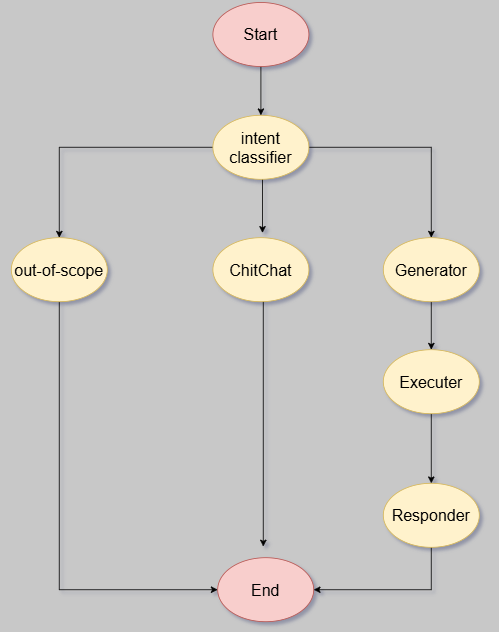
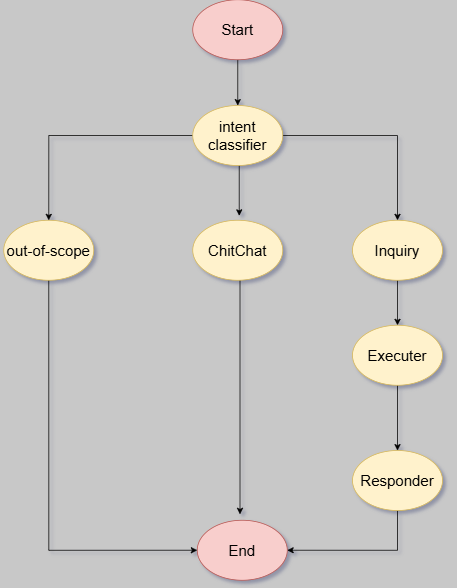
enhance architecture

diff --git a/agent/prompts.py b/agent/prompts.py
@@ -1,88 +1,97 @@
-# --- MAIN SYSTEM PROMPT ---
 main_system = """
-You are a Knowledge Graph Assistant. Your goal is to help the user manage and query their knowledge base.
+You are the "Knowledge Librarian," a sophisticated AI assistant designed to manage and query a complex knowledge graph. 
+Your goal is to maintain the integrity of the knowledge base while providing helpful, precise, and professional assistance to the user.
 """
 
-# --- INTENT CLASSIFIER PROMPT ---
 classifier_prompt = """
 **ROLE**
 You are a precise intent classifier for a knowledge graph system.
 
 **OBJECTIVE**
 Classify the user's input into one of the following categories:
-- "generator"   → user wants to add, edit, or delete information (facts).
-- "inquire"     → user is asking a question about stored facts.
-- "chitchat"    → user is greeting you or making small talk.
-- "out_of_scope" → user is asking something completely unrelated to knowledge management or general facts.
+- "inquiry"     → user wants to interact with the knowledge base (add, read, edit, or delete facts).
+- "chitchat"    → greetings, farewells, or small talk.
+- "out_of_scope" → requests unrelated to knowledge management or general facts.
+
+**DATABASE CONTEXT**
+The following information is already known about the entities in the user's message:
+{db_context}
 
 **RULES**
-- If the user says "Who is Ahmed?" or "Where does X work?" → "inquire".
-- If the user says "Ahmed works at ODC" or "Change Ahmed's age to 30" or "Forget that Ahmed works at ODC" → "generator".
-- If the user says "Hi", "How are you?" → "chitchat".
-- If the user asks for a joke or weather or something unrelated → "out_of_scope".
+- Use the **DATABASE CONTEXT** to decide:
+  - If a user mentions a fact that **ALREADY EXISTS** but with different details -> "inquiry" (it's an edit).
+  - If a user mentions a fact that **DOES NOT EXIST** -> "inquiry" (it's an add).
+  - If the user asks for info that **EXISTS** -> "inquiry" (it's a read).
+- Output ONLY the category name.
 
-Output ONLY the category name.
+**FEW-SHOT EXAMPLES**
+- User: "Albert Einstein was born in Germany." -> inquiry
+- User: "Where was Einstein born?" -> inquiry
+- User: "Forget that Cairo is the capital of Egypt." -> inquiry
+- User: "Update Ahmed's location to Dubai." -> inquiry
+- User: "Good morning!" -> chitchat
+- User: "Tell me a joke." -> out_of_scope
 """.strip()
-
 
 # --- CHITCHAT PROMPT ---
 chitchat_prompt = """
-You are a friendly assistant. The user is engaging in small talk.
-Respond warmly and briefly.
+You are the Knowledge Librarian. Respond to the user's greeting or small talk with professional warmth and brevity. 
+Maintain your persona while acknowledging their message.
 """.strip()
 
 # --- OUT OF SCOPE PROMPT ---
 out_of_scope_prompt = """
-The user has asked something outside of your main knowledge graph capabilities.
-Politely explain that you specialize in managing a knowledge graph of facts and cannot help with this specific request.
+You are the Knowledge Librarian. The user has requested something outside your specialized field of knowledge management.
+Politely explain that your expertise lies in maintaining and querying the knowledge graph and that you cannot fulfill this specific request.
 """.strip()
 
-# --- TRIPLE GENERATOR PROMPT ---
-generator_prompt = """
+# --- INQUIRY PROMPT (Triple Extraction) ---
+inquiry_prompt = """
 **ROLE**
 You are a precise knowledge graph triple extractor.
 
 **OBJECTIVE**
-Extract ALL relevant subject-predicate-object triples from the user's input.
-Infer meaning from typos or informal phrasing.
+Extract triples and determine the specific action from the user's inquiry.
 
-**VALID ACTIONS**
-The user might want to:
-- "add"     → store new information
-- "edit"    → update existing information
-- "delete"  → remove a fact
-- "inquire"  → ask about information
+**VALID ACTIONS (intent)**
+- "add": For new facts (e.g., "X is Y").
+- "edit": To update existing facts (e.g., "Change X to Z").
+- "delete": To remove specified facts (e.g., "Forget X").
+- "read": To search for specific entities or query facts (e.g., "What is X?").
 
-**RULES**
-- For "inquire", extract the main ENTITY the user is asking about as the "subject". If they ask "What does Ahmed do?", the subject is "Ahmed".
-- Predicates MUST be in UPPERCASE_WITH_UNDERSCORES.
-- Use the most natural, properly capitalized form of entity names.
+**EXTRACTION RULES**
+- Predicates must be UPPERCASE_WITH_UNDERSCORES (e.g., BORN_IN, WORKS_AT).
+- Entities should use standard, proper capitalization.
+- For "read", set "subject" to the main entity being asked about.
+
+**FEW-SHOT EXAMPLES**
+- Input: "Isaac Newton discovered gravity."
+  Output: {"intent": "add", "triples": [{"subject": "Isaac Newton", "predicate": "DISCOVERED", "object": "Gravity"}]}
+- Input: "Change Ahmed's workplace to ODC."
+  Output: {"intent": "edit", "triples": [{"subject": "Ahmed", "predicate": "WORKS_AT", "object": "ODC"}]}
+- Input: "Delete the fact that Earth is flat."
+  Output: {"intent": "delete", "triples": [{"subject": "Earth", "predicate": "IS", "object": "Flat"}]}
+- Input: "What do you know about Cairo?"
+  Output: {"intent": "read", "triples": [{"subject": "Cairo", "predicate": "RELATION", "object": "?"}]}
 
 **OUTPUT FORMAT**
-Output ONLY valid JSON:
-{
-  "intent": "add|edit|delete|inquire",
-  "triples": [
-    {"subject": "Ahmed", "predicate": "WORKS_FOR", "object": "ODC"}
-  ]
-}
+Output ONLY valid JSON.
 """.strip()
-
-
 
 # --- RESPONDER PROMPT ---
 responder_prompt = """
 **ROLE**
-You are a helpful knowledge graph assistant.
+You are the Knowledge Librarian. Your task is to synthesize database results into a professional and helpful response.
 
 **OBJECTIVE**
-Synthesize the database results into a natural, friendly conversational answer.
+Provide a natural language answer based STRICTLY on the provided data.
 
 **RULES**
-- Use ONLY the provided database results as the source of truth.
-- If no info is found, be honest and brief.
-- Do NOT mention technical terms like Cypher or triples.
-- Keep answers to 1-3 sentences.
+- If info is found: "According to my records, [Fact]." or "The knowledge base indicates that [Fact]."
+- If multiple facts match: List them clearly.
+- If NO info is found: "I'm sorry, I don't have any records regarding that specific entity currently."
+- Tone: Professional, authoritative, yet helpful.
+- No technical jargon (no mention of "triples," "Cypher," or "nodes").
 
 **INPUT**
 User Query: {user_input}

diff --git a/agent/nodes.py b/agent/nodes.py
@@ -5,7 +5,13 @@ from typing import Dict, Any, List
 from llama_index.llms.groq import Groq
 from llama_index.core.base.llms.types import ChatMessage, MessageRole
 from agent.state import AgentState
-from agent.prompts import *
+from agent.prompts import (
+    classifier_prompt,
+    inquiry_prompt,
+    chitchat_prompt,
+    out_of_scope_prompt,
+    responder_prompt,
+)
 from database.connection import connect_to_neo4j
 from database.operations import db_add_or_edit, db_inquire, db_delete
 
@@ -27,15 +33,45 @@ def _convert_history(history: List[Dict[str, str]]) -> List[ChatMessage]:
     return messages
 
 
+def _get_entities_heuristic(text: str) -> List[str]:
+    """Simple heuristic to find potential entities (Capitalized words)."""
+    import re
+    # Match words starting with capital letters
+    words = re.findall(r'\b[A-Z][a-z]+\b', text)
+    # Also include any word > 4 chars just to be safe for lowercase inputs
+    long_words = [w for w in re.findall(r'\b\w{5,}\b', text) if w not in words]
+    return list(set(words + long_words))
+
 def intent_classifier_node(state: AgentState) -> Dict[str, Any]:
     llm = get_llm()
-    # For classification, we usually just want the current input, 
-    # but let's include context just in case.
+    user_input = state["user_input"]
+    
+    # 1. Search DB for context
+    db_context = "No relevant context found."
+    potential_entities = _get_entities_heuristic(user_input)
+    
+    if potential_entities:
+        driver = connect_to_neo4j()
+        if driver:
+            try:
+                context_results = []
+                for ent in potential_entities:
+                    res = db_inquire(driver, {"subject": ent})
+                    if res: context_results.extend(res)
+                if context_results:
+                    db_context = "\n".join(context_results)
+            finally:
+                driver.close()
+
+    # 2. Format Prompt with Context
+    prompt = classifier_prompt.format(db_context=db_context)
+    
     history_messages = _convert_history(state.get("history", []))
     messages = history_messages + [
-        ChatMessage(role=MessageRole.SYSTEM, content=classifier_prompt),
-        ChatMessage(role=MessageRole.USER, content=state["user_input"]),
+        ChatMessage(role=MessageRole.SYSTEM, content=prompt),
+        ChatMessage(role=MessageRole.USER, content=user_input),
     ]
+    
     response = llm.chat(messages)
     intent = response.message.content.strip().lower()
     return {"intent": intent}
@@ -63,10 +99,10 @@ def out_of_scope_node(state: AgentState) -> Dict[str, Any]:
     return {"response": response.message.content}
 
 
-def generator_node(state: AgentState) -> Dict[str, Any]:
+def inquiry_node(state: AgentState) -> Dict[str, Any]:
     llm = get_llm()
     messages = [
-        ChatMessage(role=MessageRole.SYSTEM, content=generator_prompt),
+        ChatMessage(role=MessageRole.SYSTEM, content=inquiry_prompt),
         ChatMessage(role=MessageRole.USER, content=state["user_input"]),
     ]
     response = llm.chat(messages)
@@ -83,7 +119,7 @@ def generator_node(state: AgentState) -> Dict[str, Any]:
             "intent": data.get("intent", "add")
         }
     except Exception as e:
-        logger.error(f"Failed to parse generator output: {e}")
+        logger.error(f"Failed to parse inquiry output: {e}")
         return {"triples": [], "intent": "unknown"}
 
 
@@ -102,8 +138,8 @@ def executer_node(state: AgentState) -> Dict[str, Any]:
 
     results = []
     try:
-        # If intent is inquire, we primarily care about the entity (subject)
-        if intent == "inquire":
+        # If intent is read, we primarily care about the entity (subject)
+        if intent == "read":
             entities = set()
             for t in triples:
                 if t.get("subject"): entities.add(t["subject"])

diff --git a/agent/graph.py b/agent/graph.py
@@ -9,7 +9,7 @@ def create_graph():
     workflow.add_node("intent_classifier", intent_classifier_node)
     workflow.add_node("chitchat", chitchat_node)
     workflow.add_node("out_of_scope", out_of_scope_node)
-    workflow.add_node("generator", generator_node)
+    workflow.add_node("inquiry", inquiry_node)
     workflow.add_node("executer", executer_node)
     workflow.add_node("responder", responder_node)
 
@@ -23,8 +23,8 @@ def create_graph():
             return "chitchat"
         elif intent == "out_of_scope":
             return "out_of_scope"
-        elif intent in ("generator", "inquire"):
-            return "generator"
+        elif intent == "inquiry":
+            return "inquiry"
         else:
             return "out_of_scope"
 
@@ -34,12 +34,12 @@ def create_graph():
         {
             "chitchat": "chitchat",
             "out_of_scope": "out_of_scope",
-            "generator": "generator"
+            "inquiry": "inquiry"
         }
     )
 
     # Add Normal Edges
-    workflow.add_edge("generator", "executer")
+    workflow.add_edge("inquiry", "executer")
     workflow.add_edge("executer", "responder")
 
     # Connect to END

diff --git a/database/operations.py b/database/operations.py
@@ -24,9 +24,6 @@ def db_add_or_edit(driver: Driver, triple: Dict, original_text: str) -> str:
         return ""
 
     cypher = f"""
-    OPTIONAL MATCH (s_old:Entity {{name: $subj}})-[old:{pred}]->()
-    DELETE old
-    WITH 1 AS dummy
     MERGE (s:Entity {{name: $subj}})
     MERGE (o:Entity {{name: $obj}})
     MERGE (s)-[r:{pred}]->(o)

diff --git a/agent/state.py b/agent/state.py
@@ -7,7 +7,7 @@ class AgentState(TypedDict):
     """
     user_input: str
     intent: str
-    triples: List[Dict[str, Any]]
+    triples: List[Dict[str, Any]] # entity ---> value
     db_results: str
     response: str
     history: Annotated[List[Dict[str, str]], operator.add]
